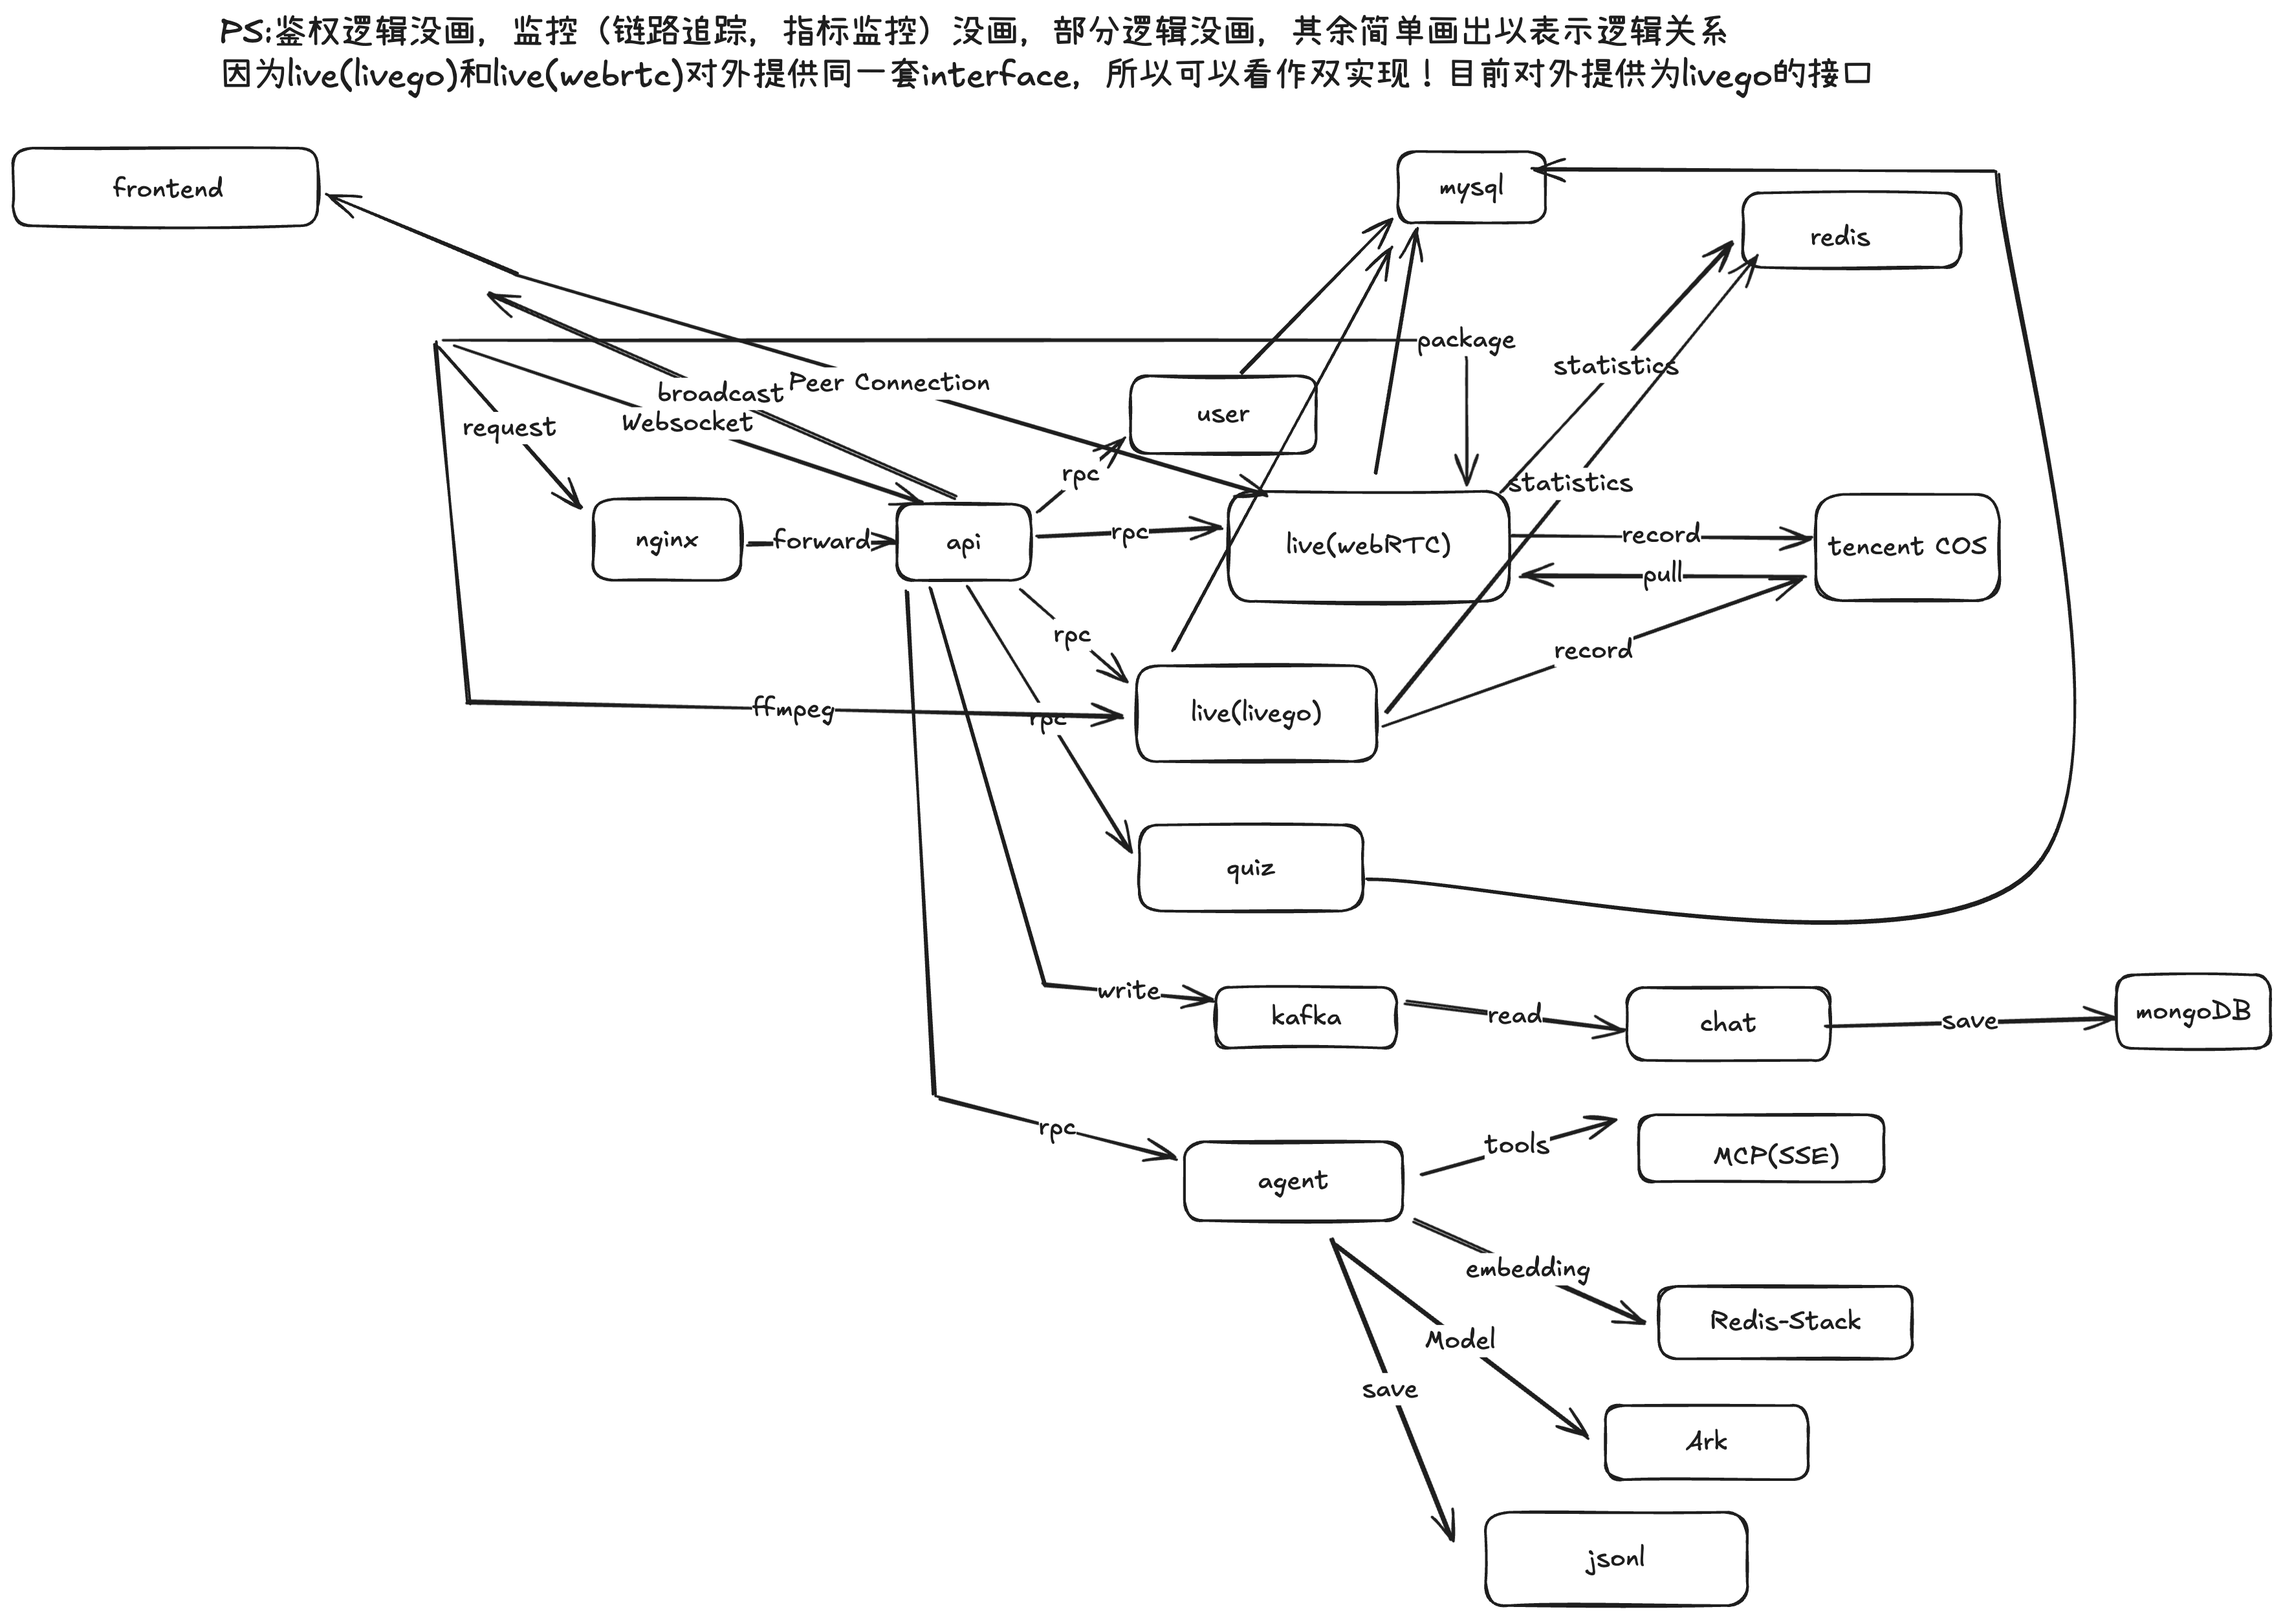
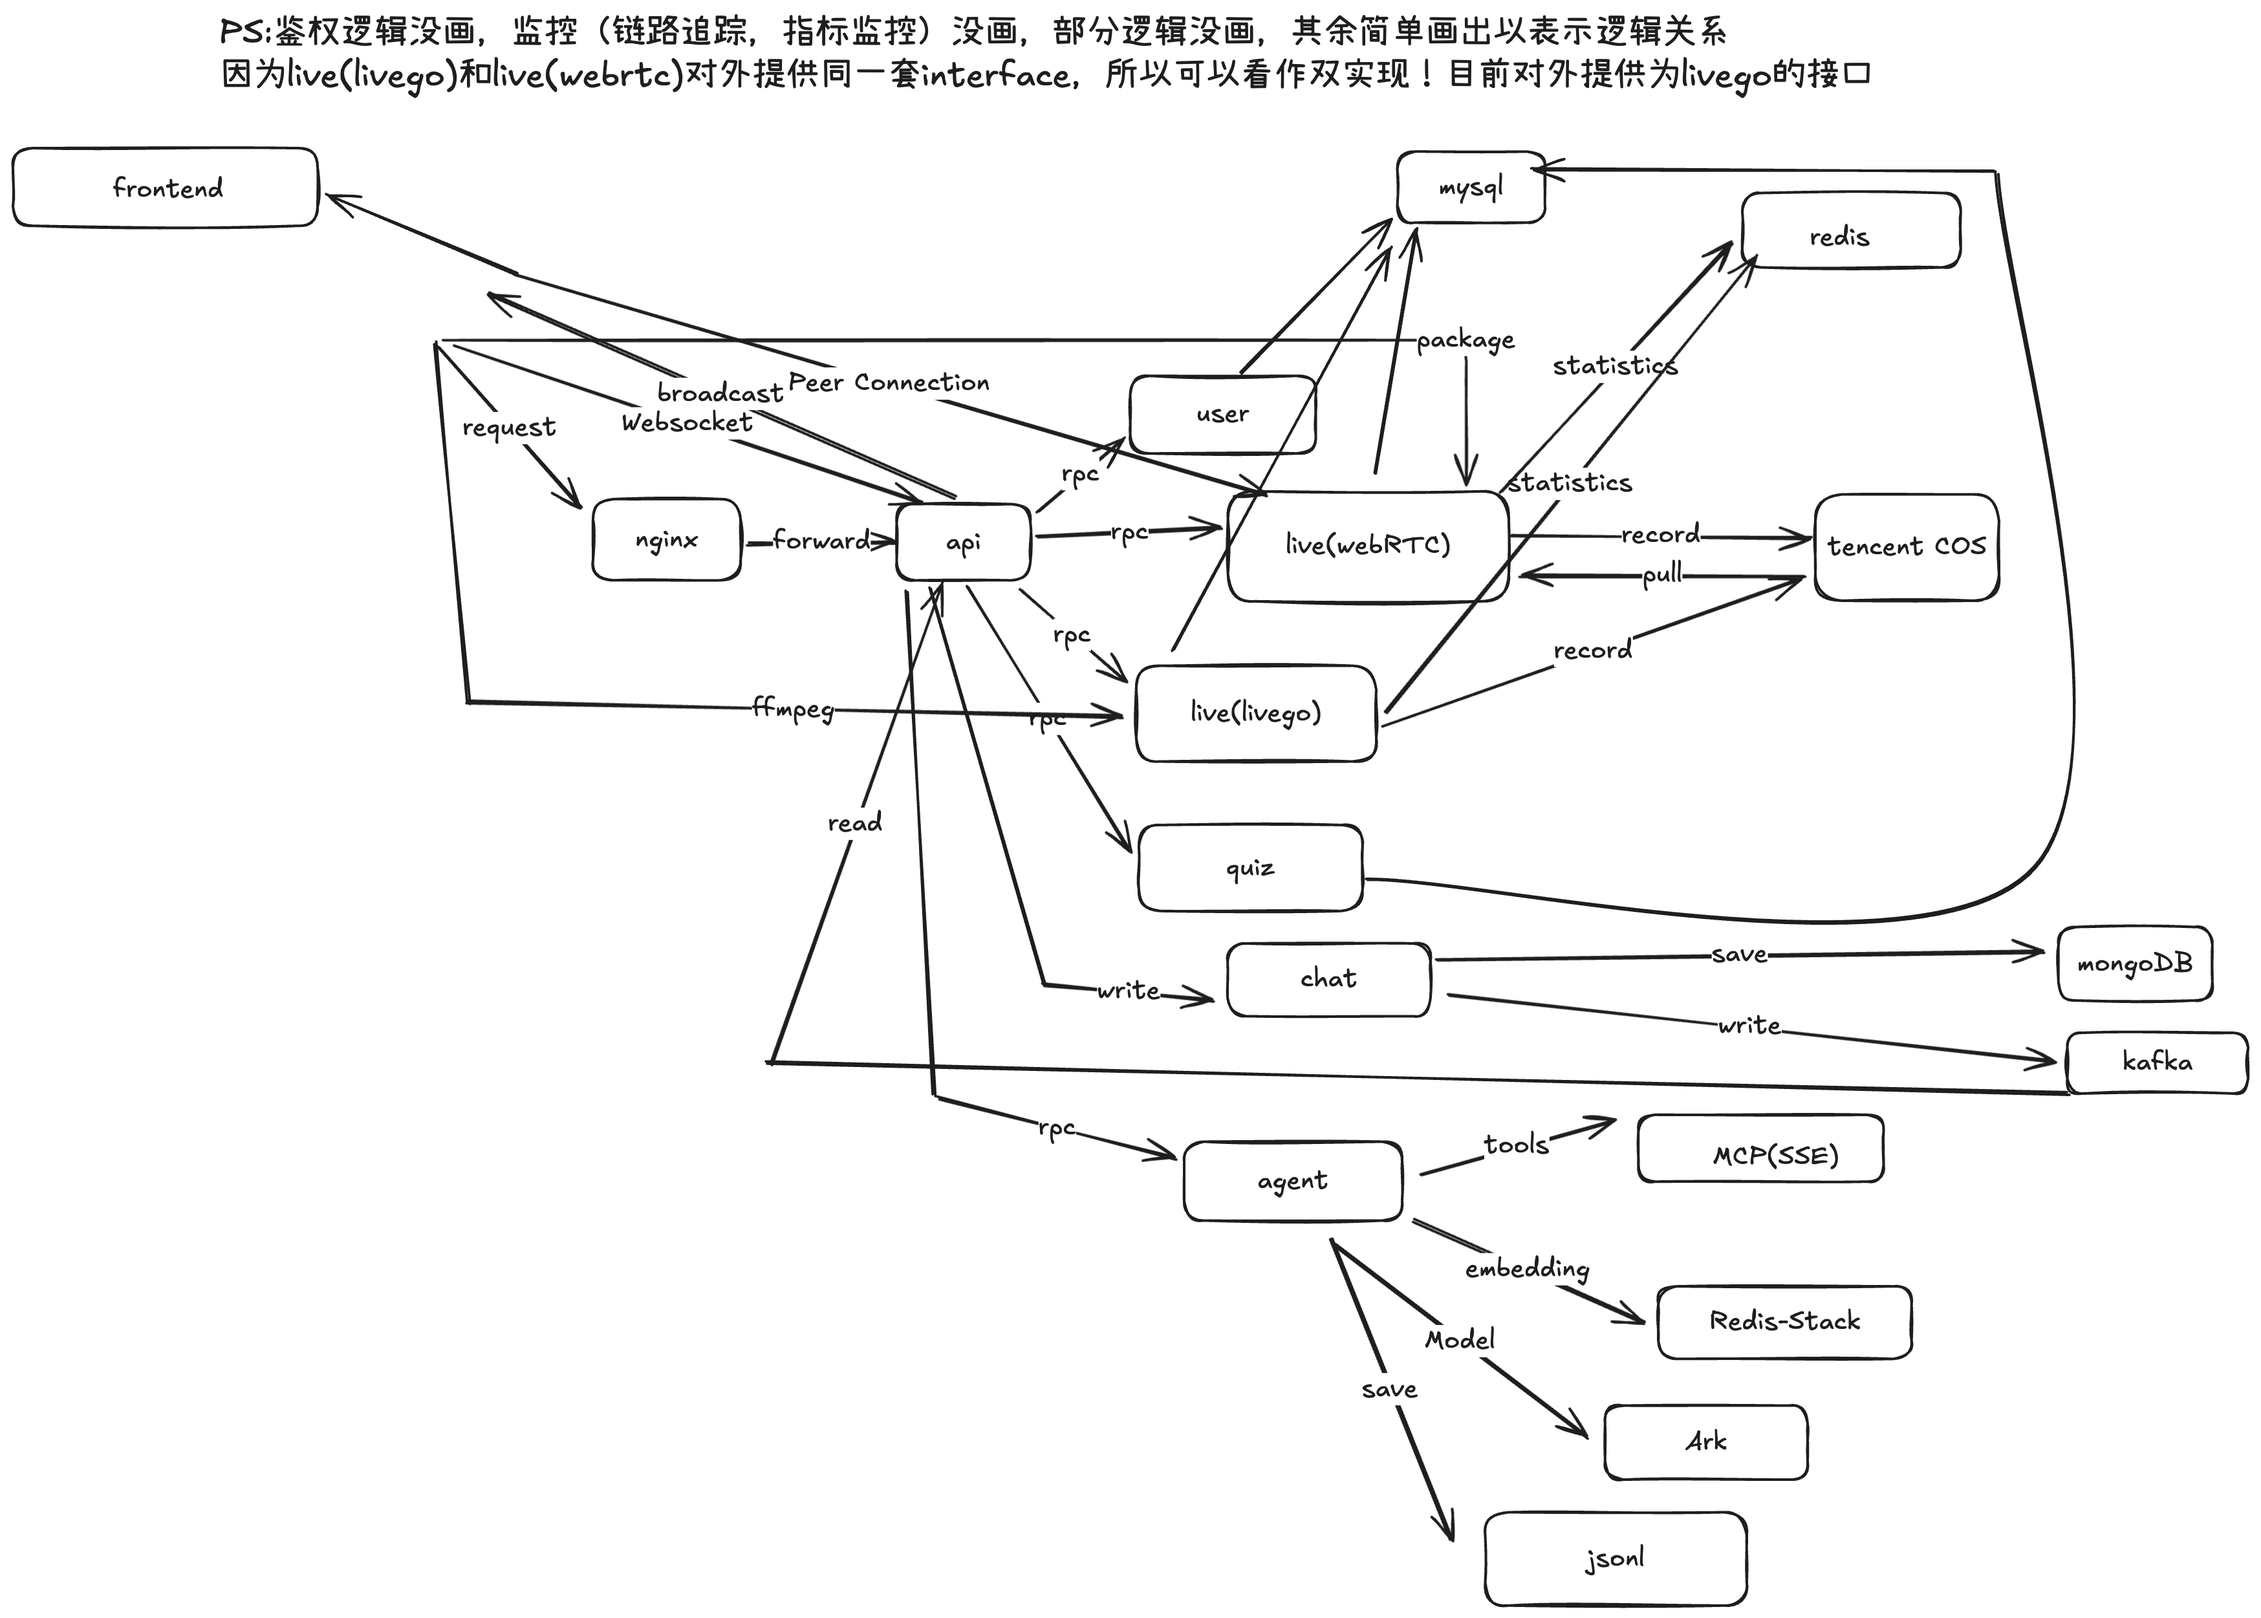
update README.md

diff --git a/README.md b/README.md
@@ -34,7 +34,7 @@
 
 - EINO DEV可视化开发
 
-- CozeLoop(扣子罗盘)
+- CozeLoop(扣子罗盘，没有埋span导致目前只能看到input/output，之后完善一下)
 
 - GORM
 
@@ -256,6 +256,14 @@ AI巨佬学长的看法:
 通过websocket作为全双工实时通讯，kafka作为消息队列来处理更多并发请求，同时具备指定关键词屏蔽，mongodb来持久化
 
 
+
+此外我参考了之前看到的“银行”级别安全，请求入库 + 事件队列双通道保障(单纯没有这么写过所以想试试hhh，延迟高了点不过可以接受)。
+
+- 广播前入库
+- rpc负责可靠持久化，**同时入kafka消息队列**
+- api层进行消费再分发
+
+第一次听到感觉很扯，不过想了想也有道理，于是就这么写啦嘿嘿
 
 ------
 
